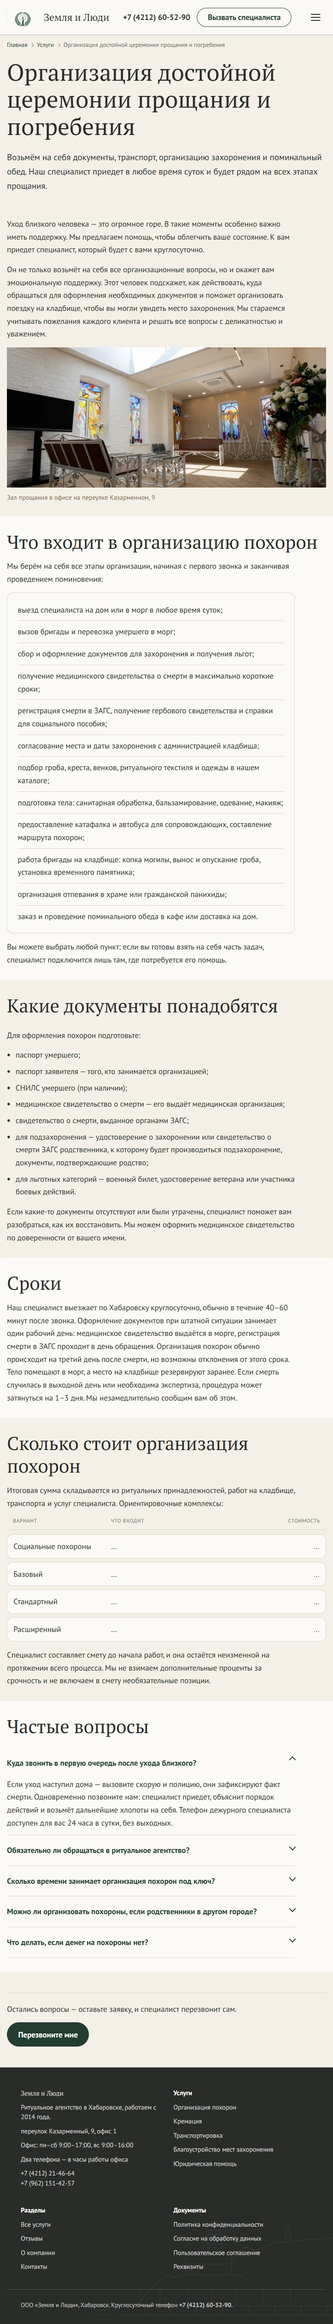
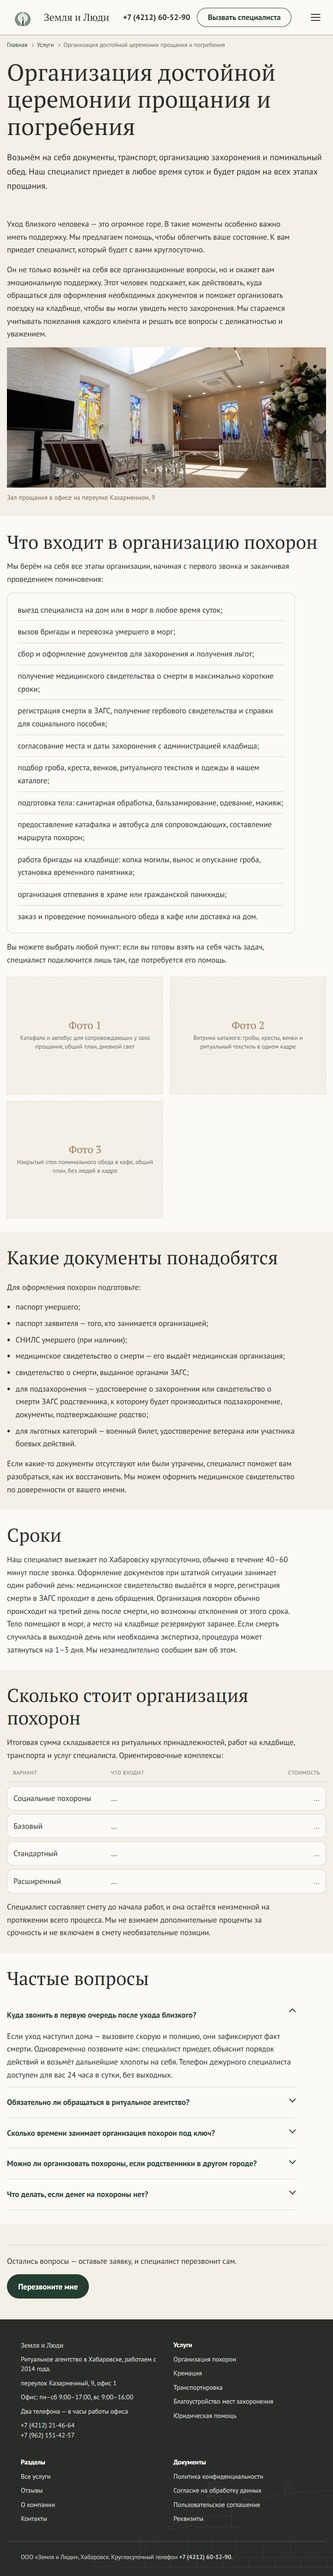
Организация похорон: три заглушки к перечню состава

Changed region(s): [[0.0, 0.0, 1.0, 0.9983], [0.9062, 0.0624, 0.9375, 0.0936]]

diff --git a/_reports/photo-slots.md b/_reports/photo-slots.md
@@ -61,6 +61,34 @@
 
 ---
 
+## Организация церемонии прощания и погребения — `/uslugi/organizatsiya-pohoron/`
+
+Три слота, добавлены 23 сентября. Ограничение прошлого прогона
+(«галерея только там, где внешний результат влияет на выбор»,
+§23.2, решение 11) снято заданием: фотографии нужны на всех пяти
+страницах услуг.
+
+Слоты стоят в конце раздела «Что входит в организацию похорон» —
+там, где перечень из двенадцати пунктов только что назвал вещи,
+которых читатель не видел. Каждый отвечает на свой вопрос из этого
+перечня.
+
+| № | Блок | Стороны | Что должно быть изображено | Кадрирование |
+|---|------|---------|----------------------------|--------------|
+| Фото 1 | галерея после перечня состава, крупная ячейка | 4:3 | Катафалк и автобус для сопровождающих у зала прощания, общий план, дневной свет | Обе машины в одном кадре, чтобы было видно, что транспорт свой и его два. Снимать от входа в зал прощания, без людей. Отвечает на пункт «предоставление катафалка и автобуса для сопровождающих, составление маршрута похорон» |
+| Фото 2 | галерея, правая верхняя ячейка | 4:3 | Витрина каталога: гробы, кресты, венки и ритуальный текстиль в одном кадре | Общий план витрины с расстояния, при котором видно разнообразие, а не отдельный предмет. Отвечает на пункт «подбор гроба, креста, венков, ритуального текстиля и одежды в нашем каталоге». Снимок того же помещения уже есть — вложение 123 на странице благоустройства; при съёмке имеет смысл взять другой ракурс, а не повторять его |
+| Фото 3 | галерея, правая нижняя ячейка | 4:3 | Накрытый стол поминального обеда в кафе, общий план, без людей в кадре | Стол накрыт и готов, свет дневной, посуда простая. Без венков и траурной символики в кадре: это про поминовение, а не про церемонию. Отвечает на пункт «заказ и проведение поминального обеда в кафе или доставка на дом» |
+
+Настоящая фотография на странице одна и остаётся на месте:
+зал прощания (вложение 121) во вводном блоке.
+
+На широком экране галерея из трёх кадров замыкается без пустых
+ячеек: первый занимает две колонки и две строки, два других стоят
+столбиком справа. На 768 px колонок две, и последняя ячейка ряда
+остаётся пустой — так устроен компонент галереи.
+
+---
+
 ## Благоустройство мест захоронения — `/uslugi/blagoustroystvo/`
 
 Шесть снимков по §21.3 и §30: результат, до, после, другой проект,
@@ -110,6 +138,11 @@
 
 ## Страницы без слотов и почему
 
+Из этого списка 23 сентября выбыли все пять страниц услуг: задание
+сняло ограничение §23.2 прямым текстом — «фотографии нужны на всех
+пяти страницах услуг». Прежние записи объясняли, почему галерей
+там нет; теперь слоты есть на каждой, и разделы по ним стоят выше.
+
 Главная из этого списка выбыла 21 сентября 2026: у неё появился
 один слот, причина разобрана выше. Прежняя запись говорила, что
 пятый кадр был бы «ради заполнения», — это оставалось верным ровно
@@ -118,8 +151,6 @@
 
 | Страница | Почему слотов нет |
 |----------|-------------------|
-| Организация церемонии, Кремация, Перевозка | Внешнего результата, который влиял бы на выбор, у этих услуг нет: результат — проведённая церемония, а не объект. §23.2 разрешает галерею только там, где он есть. У каждой страницы остаётся её настоящая фотография во вводном блоке |
-| Помощь с документами | §22: юридическая услуга — 1–3 изображения, «спокойная рабочая ситуация без постановочной драматизации». Такая фотография на странице уже есть (вложение 140) |
 | Каталог услуг | Карточки несут иконки услуг, а не фотографии. §23.1 допускает и то, и другое; иконки в теме уже нарисованы и различают услуги лучше, чем пять похожих снимков |
 | Отзывы | §22: 0–1 изображение, «фотография нужна только при смысловой пользе». Отзыву фотография пользы не добавляет |
 | О компании | Есть настоящее фото офиса и видео территории |

diff --git a/_reports/fixes-uslugi-2026-09-23.md b/_reports/fixes-uslugi-2026-09-23.md
@@ -20,7 +20,7 @@
 | 4. Долг: подписи заглушек за рамкой | завершена | ПРОШЁЛ |
 | 5. Общие компоненты страниц услуг | завершена | ПРОШЁЛ |
 | 6.1 Благоустройство (запись 14) | завершена | ПРОШЁЛ |
-| 6.2 Организация церемонии (запись 11) | не начата | — |
+| 6.2 Организация церемонии (запись 11) | завершена | ПРОШЁЛ |
 | 6.3 Кремация (запись 12) | не начата | — |
 | 6.4 Перевозка (запись 13) | не начата | — |
 | 6.5 Помощь с документами (запись 15) | не начата | — |
@@ -1276,3 +1276,60 @@ Enter повторно:      [закрыт, закрыт, закрыт, закр
 странице — «один открытый» работает, фокус виден.
 
 **Вердикт страницы 14: ПРОШЁЛ.**
+
+### Запись 11 — Организация церемонии прощания и погребения
+
+**Разведка.** `post_name` `organizatsiya-pohoron`, 13 711 байт,
+шесть секций: вводная (два абзаца + снимок 121 «зал прощания»,
+обёртки `.rz-side` нет — снимок во всю ширину под текстом), состав
+(`.rz-info-card--wide`, 12 пунктов), документы (7 пунктов), сроки
+(один абзац), стоимость (единственная на сайте таблица в три
+колонки), вопросы (5). Совпадает с реестром `_reports/pages.md`.
+
+**Куда встали слоты и почему именно туда.** Перечень состава
+называет двенадцать вещей, и три из них читатель не видел никогда:
+
+| Пункт перечня | Вопрос читателя | Слот |
+|---------------|-----------------|------|
+| «предоставление катафалка и автобуса для сопровождающих» | а транспорт свой? какой? | Фото 1 |
+| «подбор гроба, креста, венков, ритуального текстиля и одежды **в нашем каталоге**» | что за каталог, из чего выбирать? | Фото 2 |
+| «заказ и проведение поминального обеда в кафе или доставка на дом» | как это выглядит? | Фото 3 |
+
+Галерея поставлена в конец раздела «Что входит», сразу после
+замыкающего абзаца — там же, где она стоит на благоустройстве.
+Заодно это уравновешивает раздел: после задачи 5 карточка состава
+занимает 664 px из 1160, и правая половина раздела пустовала.
+
+**Цикл записи в базу.**
+
+```
+ПРОБНЫЙ ПРОГОН: ПРОШЁЛ — круговорот побайтово сошёлся (14863 байт)
+ТЕКСТ: предложений было 72, стало 78; пропало 0, появилось 6
+    ПОЯВИЛОСЬ: Фото 1 / Катафалк и автобус для сопровождающих у зала прощания, общий план, дневной свет
+    ПОЯВИЛОСЬ: Фото 2 / Витрина каталога: гробы, кресты, венки и ритуальный текстиль в одном кадре
+    ПОЯВИЛОСЬ: Фото 3 / Накрытый стол поминального обеда в кафе, общий план, без людей в кадре
+ЧТЕНИЕ ОБРАТНО: СОВПАЛО (14863 байт, md5=aba7e8da6ffcc49cf23bc9ac57d89c9a)
+СЛАГ: не изменился (organizatsiya-pohoron)
+```
+
+**Замер галереи.**
+
+```
+ 375px  одна колонка, три кадра столбиком
+ 768px  две колонки: 16..376 и 392..752, третий кадр во втором ряду
+1366px  три колонки: кадр 1 занимает 103..870 и две строки,
+        кадры 2 и 3 стоят столбиком 890..1263 — пустых ячеек нет
+```
+
+**Протокол:** круговорот `#11 … (14863 байт) ПРОШЁЛ`, всего
+`36/0`; обход страницы на пяти ширинах `0 из 5`; при 200 % на 375
+и 768 `0 из 2`; заглушки `30 проверено, 0 замечаний`; текст —
+пропало 0, появилось 6 строк заглушек, все названы выше; телефоны
+и суммы без изменений; `!important` не добавлялось.
+
+**Просмотрено глазами, 1366:** раздел «Что входит» — заголовок,
+лид, рамка с перечнем в одну колонку, замыкающий абзац, под ним
+три кадра: крупный слева на две строки и два столбиком справа.
+Пустых ячеек нет, подписи внутри рамок.
+
+**Вердикт страницы 11: ПРОШЁЛ.**
